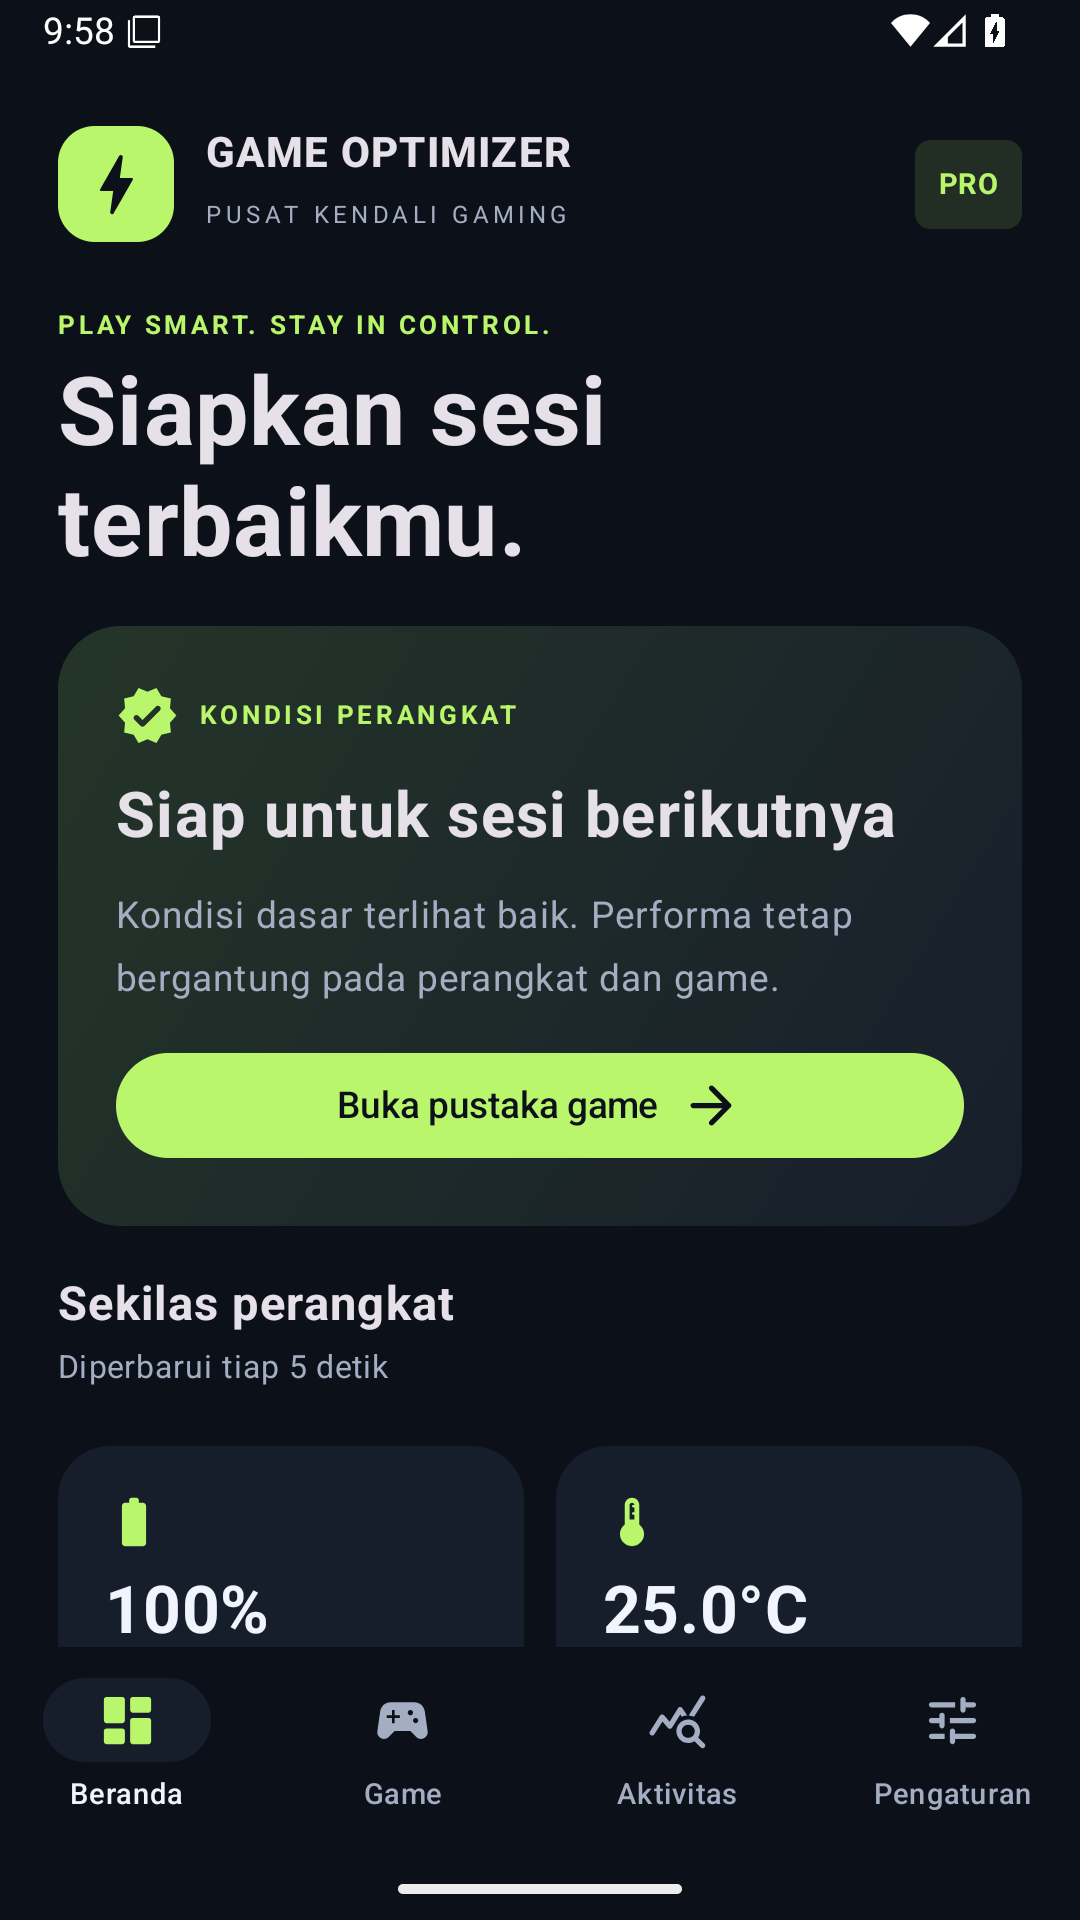
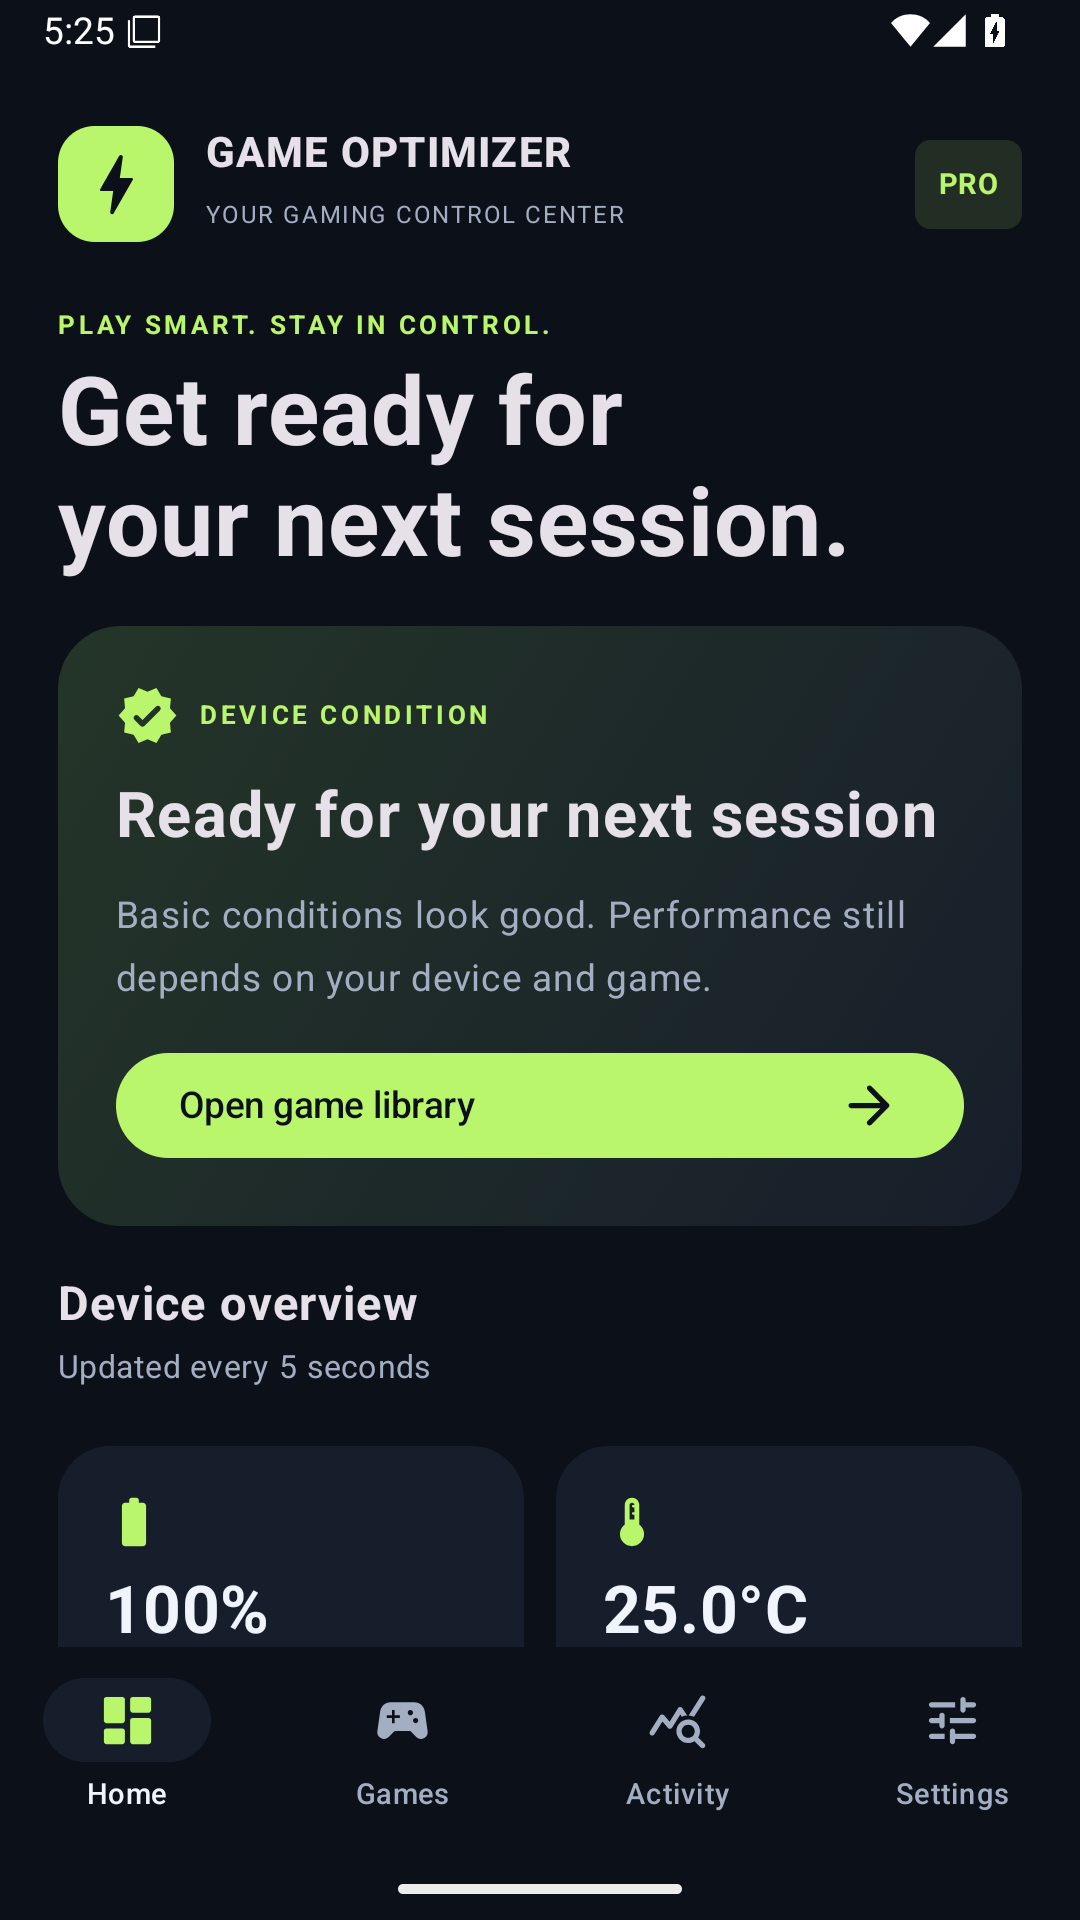
Document multilingual verification and screenshots [skip ci]

diff --git a/docs/QA.md b/docs/QA.md
@@ -21,6 +21,14 @@ Language and icon screenshots are included in the `device-test-reports-api-26` a
 
 Emulator tests are not a replacement for physical-device or Play pre-launch testing.
 
+## Version 1.1 verification — 29 September 2026
+
+- All 24 catalogs passed coverage and placeholder validation (104 translated messages each).
+- 11 JVM tests passed, plus 6 instrumentation tests on Android 8/API 26 and 6 on Android 16/API 36, with no failures or errors.
+- Local debug/release lint, APK/AAB builds, signature verification, and 16 KB APK alignment checks passed.
+- Actual Android 16 screenshots in `docs/screenshots` were refreshed; Arabic RTL, Japanese settings, and installed app icons were visually reviewed on both emulator generations.
+- CI run: https://github.com/seandyadryan/game-optimizer-pro/actions/runs/36457516447
+
 ## Manual device acceptance
 
 - Fresh install: introductory disclosure appears; acceptance persists after restart.

diff --git a/README.md b/README.md
@@ -11,6 +11,8 @@ Actual Android 16 emulator captures; device readings are emulator values.
 
 <img src="docs/screenshots/01-dashboard.png" width="240" alt="Device dashboard" /> <img src="docs/screenshots/02-library.png" width="240" alt="Game library" /> <img src="docs/screenshots/03-activity.png" width="240" alt="Session history" />
 
+<img src="docs/screenshots/06-arabic-rtl.png" width="240" alt="Arabic right-to-left settings" /> <img src="docs/screenshots/07-japanese.png" width="240" alt="Japanese settings" /> <img src="docs/screenshots/05-installed-app-icons.png" width="240" alt="Original installed app icon in the picker" />
+
 ## Features
 
 - Live device dashboard: available system RAM, battery level/temperature, free storage, connectivity, power saving and thermal warnings.
